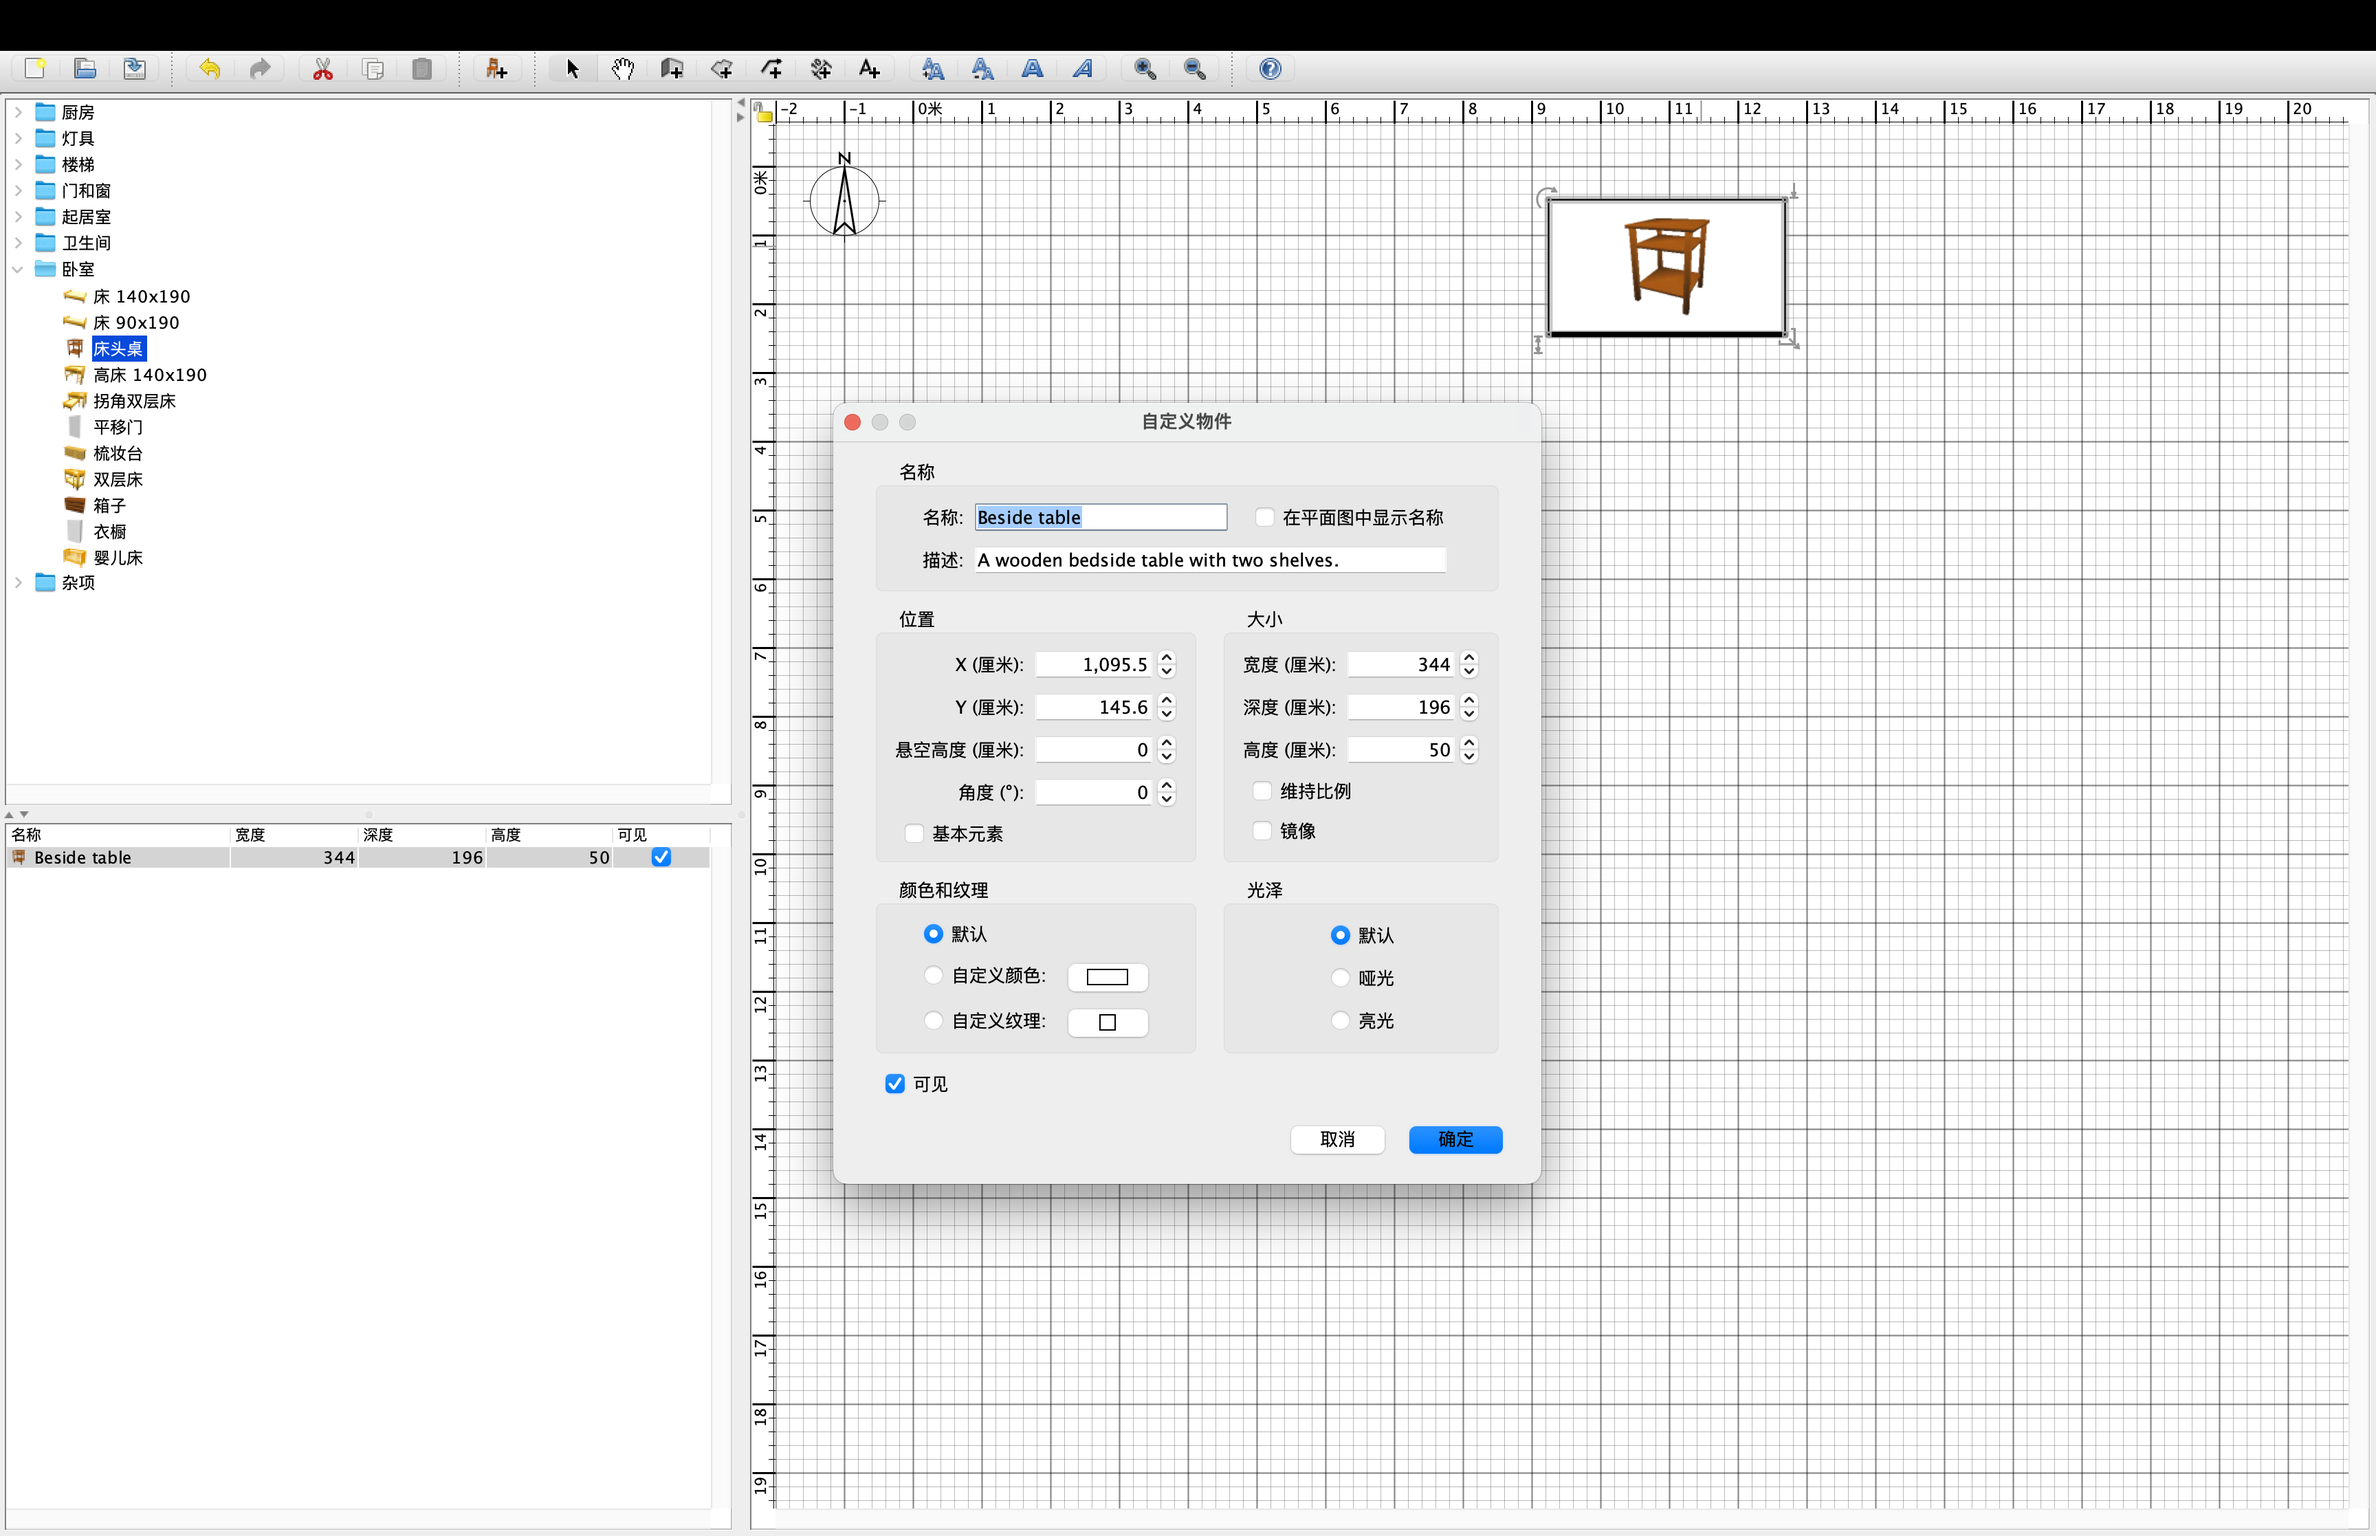
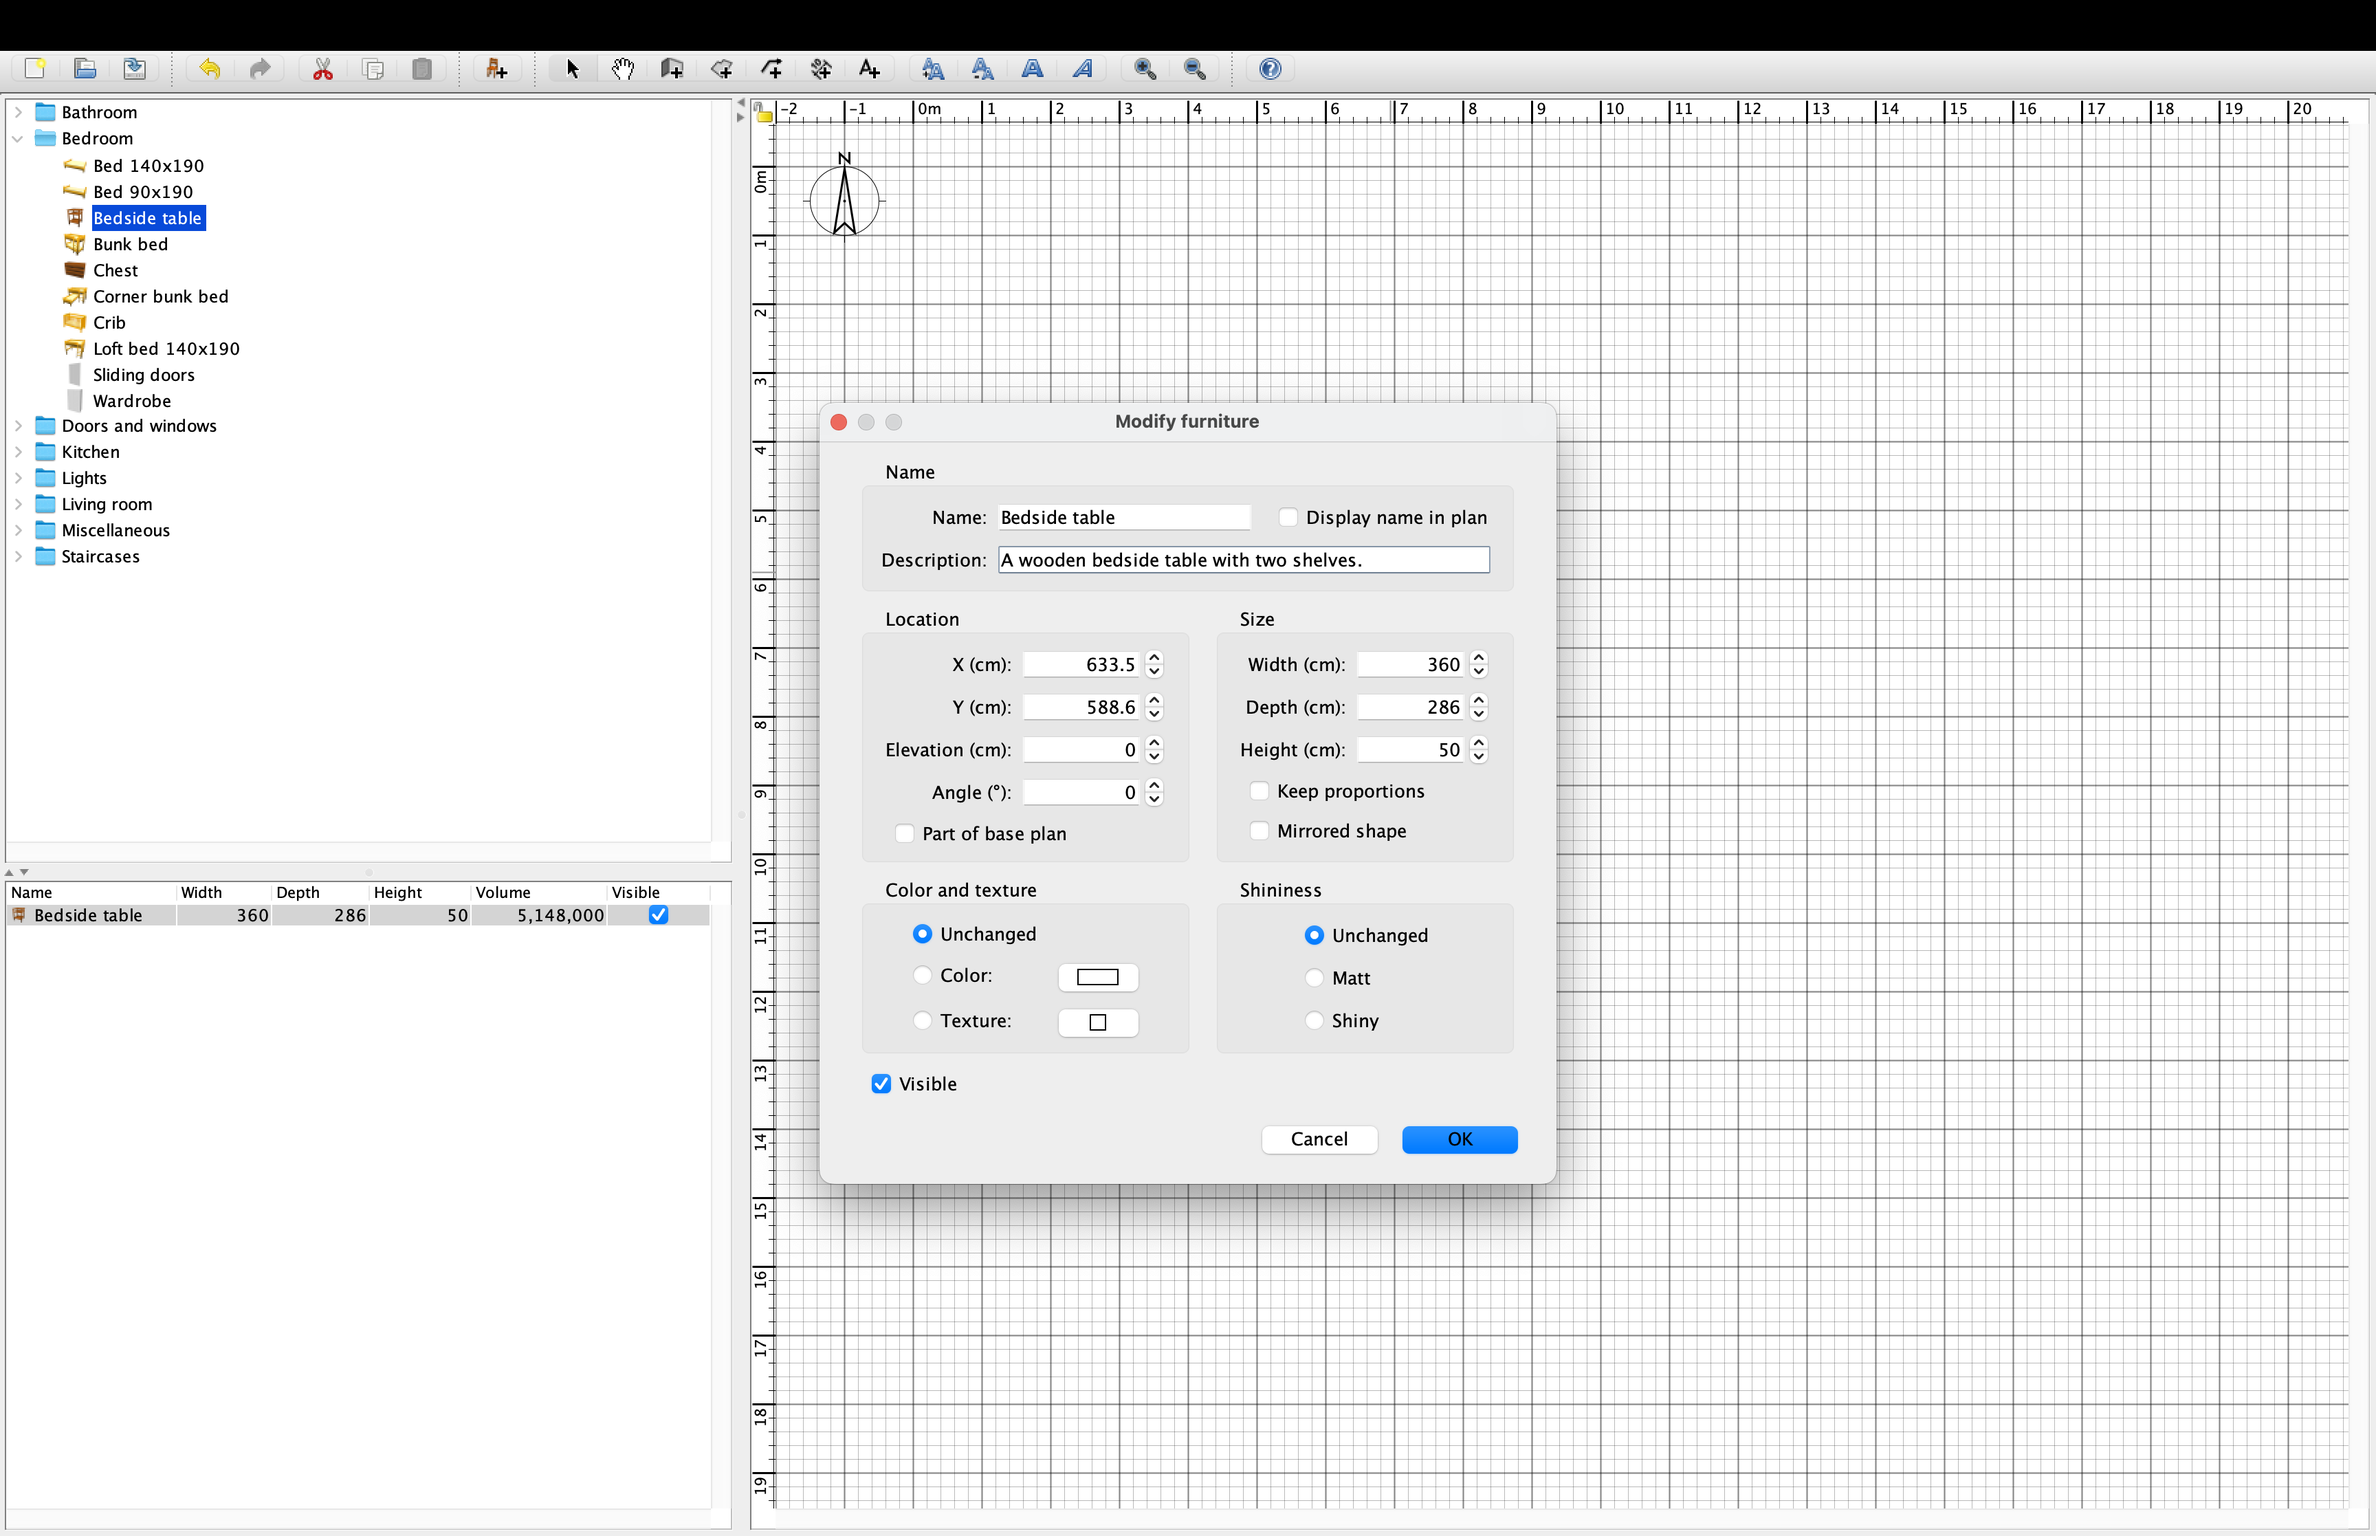
Add volume column with sorting,display and csv support

diff --git a/SweetHome3D/src/com/eteks/sweethome3d/swing/HomePane.java b/SweetHome3D/src/com/eteks/sweethome3d/swing/HomePane.java
@@ -355,6 +355,8 @@ public class HomePane extends JRootPane implements HomeView {
         furnitureController, "toggleFurnitureSort", HomePieceOfFurniture.SortableProperty.DEPTH);
     createAction(ActionType.SORT_HOME_FURNITURE_BY_HEIGHT, preferences, 
         furnitureController, "toggleFurnitureSort", HomePieceOfFurniture.SortableProperty.HEIGHT);
+    createAction(ActionType.SORT_HOME_FURNITURE_BY_VOLUME,preferences,
+        furnitureController, "toggleFurnitureSort", HomePieceOfFurniture.SortableProperty.VOLUME);
     createAction(ActionType.SORT_HOME_FURNITURE_BY_X, preferences, 
         furnitureController, "toggleFurnitureSort", HomePieceOfFurniture.SortableProperty.X);
     createAction(ActionType.SORT_HOME_FURNITURE_BY_Y, preferences, 
@@ -395,6 +397,8 @@ public class HomePane extends JRootPane implements HomeView {
         furnitureController, "toggleFurnitureVisibleProperty", HomePieceOfFurniture.SortableProperty.DEPTH);
     createAction(ActionType.DISPLAY_HOME_FURNITURE_HEIGHT, preferences, 
         furnitureController, "toggleFurnitureVisibleProperty", HomePieceOfFurniture.SortableProperty.HEIGHT);
+    createAction(ActionType.DISPLAY_HOME_FURNITURE_VOLUME, preferences,
+        furnitureController, "toggleFurnitureVisibleProperty", HomePieceOfFurniture.SortableProperty.VOLUME);
     createAction(ActionType.DISPLAY_HOME_FURNITURE_X, preferences, 
         furnitureController, "toggleFurnitureVisibleProperty", HomePieceOfFurniture.SortableProperty.X);
     createAction(ActionType.DISPLAY_HOME_FURNITURE_Y, preferences, 
@@ -1324,6 +1328,8 @@ public class HomePane extends JRootPane implements HomeView {
         sortActions, HomePieceOfFurniture.SortableProperty.DEPTH);
     addActionToMap(ActionType.SORT_HOME_FURNITURE_BY_HEIGHT, 
         sortActions, HomePieceOfFurniture.SortableProperty.HEIGHT);
+    addActionToMap(ActionType.SORT_HOME_FURNITURE_BY_VOLUME,
+            sortActions, HomePieceOfFurniture.SortableProperty.VOLUME);
     addActionToMap(ActionType.SORT_HOME_FURNITURE_BY_X, 
         sortActions, HomePieceOfFurniture.SortableProperty.X);
     addActionToMap(ActionType.SORT_HOME_FURNITURE_BY_Y, 
@@ -1427,6 +1433,8 @@ public class HomePane extends JRootPane implements HomeView {
         displayPropertyActions, HomePieceOfFurniture.SortableProperty.DEPTH);
     addActionToMap(ActionType.DISPLAY_HOME_FURNITURE_HEIGHT, 
         displayPropertyActions, HomePieceOfFurniture.SortableProperty.HEIGHT);
+    addActionToMap(ActionType.DISPLAY_HOME_FURNITURE_VOLUME,
+            displayPropertyActions, HomePieceOfFurniture.SortableProperty.VOLUME);
     addActionToMap(ActionType.DISPLAY_HOME_FURNITURE_X, 
         displayPropertyActions, HomePieceOfFurniture.SortableProperty.X);
     addActionToMap(ActionType.DISPLAY_HOME_FURNITURE_Y, 

diff --git a/SweetHome3D/src/com/eteks/sweethome3d/swing/FurnitureTable.java b/SweetHome3D/src/com/eteks/sweethome3d/swing/FurnitureTable.java
@@ -921,6 +921,9 @@ public class FurnitureTable extends JTable implements View, Printable {
           case HEIGHT : 
             writer.write(sizeFormat.format(copiedPiece.getHeight()));
             break;
+          case VOLUME :
+            writer.write(sizeFormat.format(copiedPiece.getVolume()));
+            break;
           case X : 
             writer.write(sizeFormat.format(copiedPiece.getX()));
             break;
@@ -1130,6 +1133,8 @@ public class FurnitureTable extends JTable implements View, Printable {
           return preferences.getLocalizedString(FurnitureTable.class, "depthColumn");
         case HEIGHT : 
           return preferences.getLocalizedString(FurnitureTable.class, "heightColumn");
+        case VOLUME:
+          return preferences.getLocalizedString(FurnitureTable.class, "volumeColumn");
         case X : 
           return preferences.getLocalizedString(FurnitureTable.class, "xColumn");
         case Y :
@@ -1178,6 +1183,8 @@ public class FurnitureTable extends JTable implements View, Printable {
         case Y :
         case ELEVATION : 
           return 50;
+        case VOLUME :
+          return 80;
         case ANGLE :
           return 35;        
         case LEVEL :
@@ -1215,7 +1222,9 @@ public class FurnitureTable extends JTable implements View, Printable {
           return getSizeRenderer(HomePieceOfFurniture.SortableProperty.DEPTH, preferences);
         case HEIGHT : 
           return getSizeRenderer(HomePieceOfFurniture.SortableProperty.HEIGHT, preferences);
-        case X : 
+        case VOLUME:
+          return getSizeRenderer(HomePieceOfFurniture.SortableProperty.VOLUME, preferences);
+        case X :
           return getSizeRenderer(HomePieceOfFurniture.SortableProperty.X, preferences);
         case Y :
           return getSizeRenderer(HomePieceOfFurniture.SortableProperty.Y, preferences);
@@ -1341,6 +1350,16 @@ public class FurnitureTable extends JTable implements View, Printable {
                     isSelected, hasFocus, row, column);
               }
             };
+        case VOLUME:
+          return new SizeRenderer() {
+            @Override
+            public Component getTableCellRendererComponent(JTable table,
+                                                           Object value, boolean isSelected, boolean hasFocus, int row, int column) {
+              return super.getTableCellRendererComponent(table,
+                      value != null ? ((HomePieceOfFurniture) value).getVolume() : null,
+                      isSelected, hasFocus, row, column);
+            }
+          };
         case X :
           return new SizeRenderer() {
               @Override

diff --git a/SweetHome3D/src/com/eteks/sweethome3d/viewcontroller/HomeView.java b/SweetHome3D/src/com/eteks/sweethome3d/viewcontroller/HomeView.java
@@ -44,7 +44,7 @@ public interface HomeView extends View {
       ADD_HOME_FURNITURE, ADD_FURNITURE_TO_GROUP, DELETE_HOME_FURNITURE, MODIFY_FURNITURE, 
       IMPORT_FURNITURE, IMPORT_FURNITURE_LIBRARY, IMPORT_TEXTURE, IMPORT_TEXTURES_LIBRARY,
       SORT_HOME_FURNITURE_BY_CATALOG_ID, SORT_HOME_FURNITURE_BY_NAME, 
-      SORT_HOME_FURNITURE_BY_WIDTH, SORT_HOME_FURNITURE_BY_DEPTH, SORT_HOME_FURNITURE_BY_HEIGHT, 
+      SORT_HOME_FURNITURE_BY_WIDTH, SORT_HOME_FURNITURE_BY_DEPTH, SORT_HOME_FURNITURE_BY_HEIGHT, SORT_HOME_FURNITURE_BY_VOLUME,
       SORT_HOME_FURNITURE_BY_X, SORT_HOME_FURNITURE_BY_Y, SORT_HOME_FURNITURE_BY_ELEVATION, 
       SORT_HOME_FURNITURE_BY_ANGLE, SORT_HOME_FURNITURE_BY_LEVEL, SORT_HOME_FURNITURE_BY_COLOR, SORT_HOME_FURNITURE_BY_TEXTURE, 
       SORT_HOME_FURNITURE_BY_MOVABILITY, SORT_HOME_FURNITURE_BY_TYPE, SORT_HOME_FURNITURE_BY_VISIBILITY, 
@@ -52,7 +52,7 @@ public interface HomeView extends View {
       SORT_HOME_FURNITURE_BY_VALUE_ADDED_TAX, SORT_HOME_FURNITURE_BY_PRICE_VALUE_ADDED_TAX_INCLUDED,
       SORT_HOME_FURNITURE_BY_DESCENDING_ORDER,
       DISPLAY_HOME_FURNITURE_CATALOG_ID, DISPLAY_HOME_FURNITURE_NAME, 
-      DISPLAY_HOME_FURNITURE_WIDTH, DISPLAY_HOME_FURNITURE_DEPTH, DISPLAY_HOME_FURNITURE_HEIGHT, 
+      DISPLAY_HOME_FURNITURE_WIDTH, DISPLAY_HOME_FURNITURE_DEPTH, DISPLAY_HOME_FURNITURE_HEIGHT, DISPLAY_HOME_FURNITURE_VOLUME,
       DISPLAY_HOME_FURNITURE_X, DISPLAY_HOME_FURNITURE_Y, DISPLAY_HOME_FURNITURE_ELEVATION, 
       DISPLAY_HOME_FURNITURE_ANGLE, DISPLAY_HOME_FURNITURE_COLOR, DISPLAY_HOME_FURNITURE_LEVEL, DISPLAY_HOME_FURNITURE_TEXTURE, 
       DISPLAY_HOME_FURNITURE_MOVABLE, DISPLAY_HOME_FURNITURE_DOOR_OR_WINDOW, DISPLAY_HOME_FURNITURE_VISIBLE,

diff --git a/SweetHome3D/src/com/eteks/sweethome3d/viewcontroller/HomeController.java b/SweetHome3D/src/com/eteks/sweethome3d/viewcontroller/HomeController.java
@@ -256,6 +256,7 @@ public class HomeController implements Controller {
     homeView.setEnabled(HomeView.ActionType.SORT_HOME_FURNITURE_BY_WIDTH, true);
     homeView.setEnabled(HomeView.ActionType.SORT_HOME_FURNITURE_BY_HEIGHT, true);
     homeView.setEnabled(HomeView.ActionType.SORT_HOME_FURNITURE_BY_DEPTH, true);
+    homeView.setEnabled(HomeView.ActionType.SORT_HOME_FURNITURE_BY_VOLUME, true);
     homeView.setEnabled(HomeView.ActionType.SORT_HOME_FURNITURE_BY_X, true);
     homeView.setEnabled(HomeView.ActionType.SORT_HOME_FURNITURE_BY_Y, true);
     homeView.setEnabled(HomeView.ActionType.SORT_HOME_FURNITURE_BY_ELEVATION, true);
@@ -276,7 +277,8 @@ public class HomeController implements Controller {
     homeView.setEnabled(HomeView.ActionType.DISPLAY_HOME_FURNITURE_NAME, true); 
     homeView.setEnabled(HomeView.ActionType.DISPLAY_HOME_FURNITURE_WIDTH, true); 
     homeView.setEnabled(HomeView.ActionType.DISPLAY_HOME_FURNITURE_DEPTH, true); 
-    homeView.setEnabled(HomeView.ActionType.DISPLAY_HOME_FURNITURE_HEIGHT, true); 
+    homeView.setEnabled(HomeView.ActionType.DISPLAY_HOME_FURNITURE_HEIGHT, true);
+    homeView.setEnabled(HomeView.ActionType.DISPLAY_HOME_FURNITURE_VOLUME, true);
     homeView.setEnabled(HomeView.ActionType.DISPLAY_HOME_FURNITURE_X, true); 
     homeView.setEnabled(HomeView.ActionType.DISPLAY_HOME_FURNITURE_Y, true); 
     homeView.setEnabled(HomeView.ActionType.DISPLAY_HOME_FURNITURE_ELEVATION, true); 

diff --git a/SweetHome3D/src/com/eteks/sweethome3d/model/HomePieceOfFurniture.java b/SweetHome3D/src/com/eteks/sweethome3d/model/HomePieceOfFurniture.java
@@ -56,7 +56,7 @@ public class HomePieceOfFurniture extends HomeObject implements PieceOfFurniture
   /** 
    * The properties on which home furniture may be sorted.  
    */
-  public enum SortableProperty {CATALOG_ID, NAME, WIDTH, DEPTH, HEIGHT, MOVABLE, 
+  public enum SortableProperty {CATALOG_ID, NAME, WIDTH, DEPTH, HEIGHT, VOLUME, MOVABLE,
                                 DOOR_OR_WINDOW, COLOR, TEXTURE, VISIBLE, X, Y, ELEVATION, ANGLE,
                                 PRICE, VALUE_ADDED_TAX, VALUE_ADDED_TAX_PERCENTAGE, PRICE_VALUE_ADDED_TAX_INCLUDED, LEVEL};
   private static final Map<SortableProperty, Comparator<HomePieceOfFurniture>> SORTABLE_PROPERTY_COMPARATORS;
@@ -97,6 +97,11 @@ public class HomePieceOfFurniture extends HomeObject implements PieceOfFurniture
           return HomePieceOfFurniture.compare(piece1.width, piece2.width);
         }
       });
+    SORTABLE_PROPERTY_COMPARATORS.put(SortableProperty.VOLUME, new Comparator<HomePieceOfFurniture>() {
+      public int compare(HomePieceOfFurniture piece1, HomePieceOfFurniture piece2) {
+        return Float.compare(piece1.getVolume(), piece2.getVolume());
+      }
+    });
     SORTABLE_PROPERTY_COMPARATORS.put(SortableProperty.HEIGHT, new Comparator<HomePieceOfFurniture>() {
         public int compare(HomePieceOfFurniture piece1, HomePieceOfFurniture piece2) {
           return HomePieceOfFurniture.compare(piece1.height, piece2.height);

diff --git a/SweetHome3D/src/com/eteks/sweethome3d/model/Home.java b/SweetHome3D/src/com/eteks/sweethome3d/model/Home.java
@@ -158,6 +158,7 @@ public class Home implements Serializable, Cloneable {
         HomePieceOfFurniture.SortableProperty.WIDTH,
         HomePieceOfFurniture.SortableProperty.DEPTH,
         HomePieceOfFurniture.SortableProperty.HEIGHT,
+        HomePieceOfFurniture.SortableProperty.VOLUME,
         HomePieceOfFurniture.SortableProperty.VISIBLE});
     // Init transient lists and other fields
     init(true);

diff --git a/SweetHome3D/src/com/eteks/sweethome3d/model/PieceOfFurniture.java b/SweetHome3D/src/com/eteks/sweethome3d/model/PieceOfFurniture.java
@@ -58,6 +58,14 @@ public interface PieceOfFurniture {
   public abstract float getWidth();
 
   /**
+   * Returns the volume of this piece of furniture.
+   */
+
+  default float getVolume(){
+    return getWidth()*getDepth()*getHeight();
+  }
+
+  /**
    * Returns the elevation of this piece of furniture.
    */
   public abstract float getElevation();
